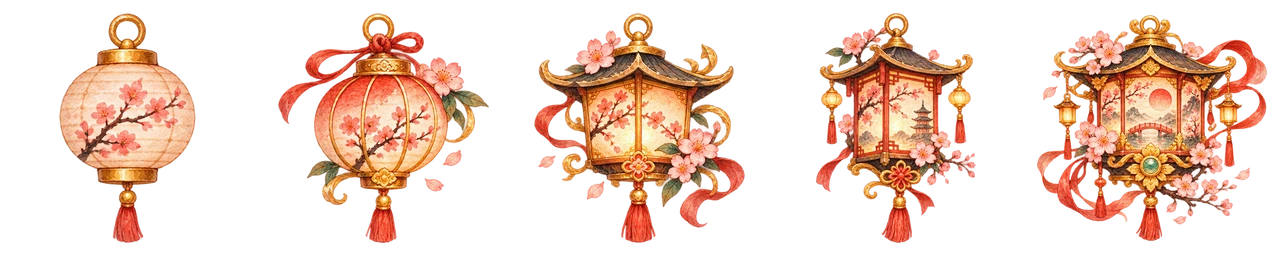
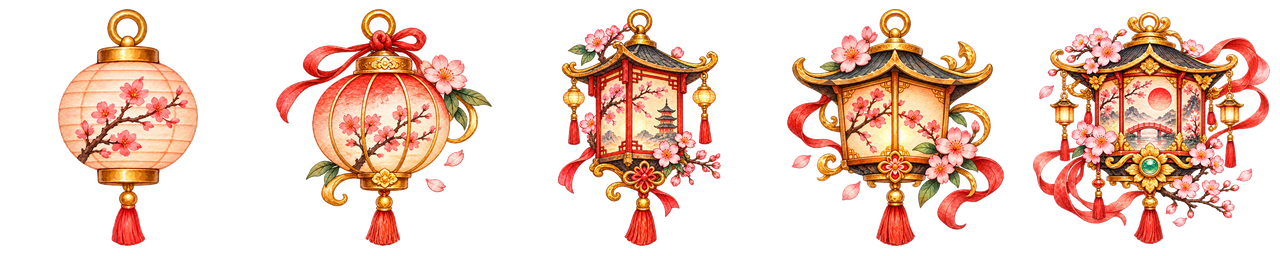
Lantern artwork correction 2.0 — integrate five supplied originals
Replace Lantern stages 1–5 with user's exact illustrations, remove baked checkerboard for transparency, preserve original painting and palette in a lossless WebP atlas. Refresh asset cache and retain ?lantern=classic rollback; all other game assets and rules untouched.

diff --git a/daisugi-bloom/harmony/app.js b/daisugi-bloom/harmony/app.js
@@ -3759,7 +3759,7 @@ const ART_RESOURCES=[
  {file:"harmony-atlas.webp",query:"v=icons-20261022",ready:"has-atlas",css:"--harmony-classic-art"},
  {file:"sakura-five-stages-20261103-v2.webp",query:"v=sakura-20261103-2",ready:"has-sakura-art",css:"--harmony-sakura-art"},
  {file:"koi-five-stages.webp",query:"v=koi-20261103-1",ready:"has-koi-art",css:"--harmony-koi-art"},
- {file:"lantern-five-stages.webp",query:"v=lantern-20261103-1",ready:"has-lantern-art",css:"--harmony-lantern-art"},
+ {file:"lantern-five-stages.webp",query:"v=lantern-20261103-2-originals",ready:"has-lantern-art",css:"--harmony-lantern-art"},
  {file:"fan-five-stages.webp",query:"v=fan-20261103-1",ready:"has-fan-art",css:"--harmony-fan-art"},
  {file:"sushi-five-stages.webp",query:"v=sushi-20261103-1",ready:"has-sushi-art",css:"--harmony-sushi-art"},
  {file:"maneki-five-stages.webp",query:"v=maneki-20261103-1",ready:"has-maneki-art",css:"--harmony-maneki-art"},

diff --git a/daisugi-bloom/index.html b/daisugi-bloom/index.html
@@ -72,7 +72,7 @@
  <script defer src="./harmony/omamori-targets.js?v=1.2.0-lotus-safe"></script>
  <script defer src="./harmony/fortune.js?v=6.52.0-post-tutorial"></script>
  <script defer src="./harmony/save-health.js?v=1.6.0-round-telemetry"></script>
- <script defer src="./harmony/app.js?v=6.97.1-sakura-20261103-2"></script>
+ <script defer src="./harmony/app.js?v=6.97.2-lantern-originals-20261103-2"></script>
 </head>
 <body>
  <img id="festivalBackdrop" class="festival-backdrop"

diff --git a/daisugi-bloom/docs/LANTERN_ARTWORK_CORRECTION_2_0.md b/daisugi-bloom/docs/LANTERN_ARTWORK_CORRECTION_2_0.md
@@ -1,0 +1,15 @@
+# Lantern artwork correction 2.0 — 2026-11-03
+Five **user-uploaded** Lantern artworks replace only the Lantern (Lykta) stage 1–5 atlas; no generative art used.
+
+## Source and processing
+- Source image files in stage order: 1000001197.png, 1000001196.png, 1000001200.png, 1000001198.png, 1000001199.png.
+- Supplied 1536×1536 RGB images contain a baked-in gray checkerboard, *not* an alpha channel. The checkerboard was removed by a color/darkness matte, isolation of the original illustration and slight antialiasing.
+- The five isolated original illustrations were centered and resized with LANCZOS into 256×256 frames and combined into `assets/lantern-five-stages.webp`, a 1280×256 lossless RGBA WebP atlas.
+- Colors, motifs, outlines, individual stage designs and order are retained; no artwork was generated or redesigned.
+- The asset is cached as `v=lantern-20261103-2-originals`.
+
+## Integration and rollback
+- Existing `harmony/lantern-art.css` automatically renders the replacement in play and collection using `--harmony-lantern-art` once preload succeeds.
+- Query parameter `?lantern=classic` restores the classic Lantern assets.
+- All other families (including Sakura), game rules, saves, and level progression remain untouched.
+- Visual acceptance: check stages 1–5 at 7×7 board scale, verify no checkerboard/grid behind icons, inspect Stage 5 in Goshuincho and compare `?lantern=classic`.
